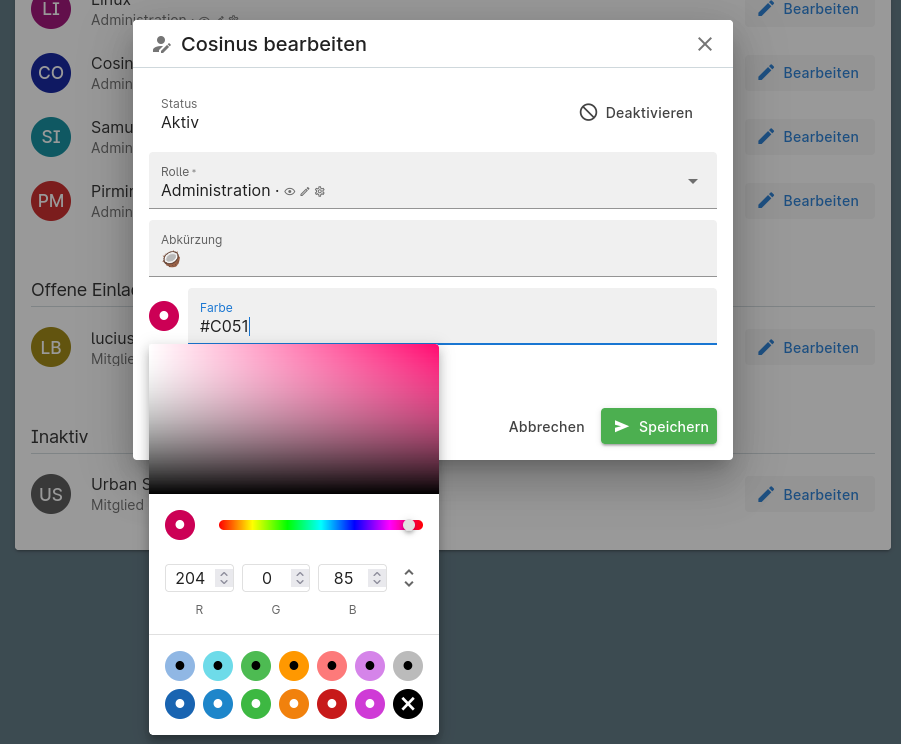
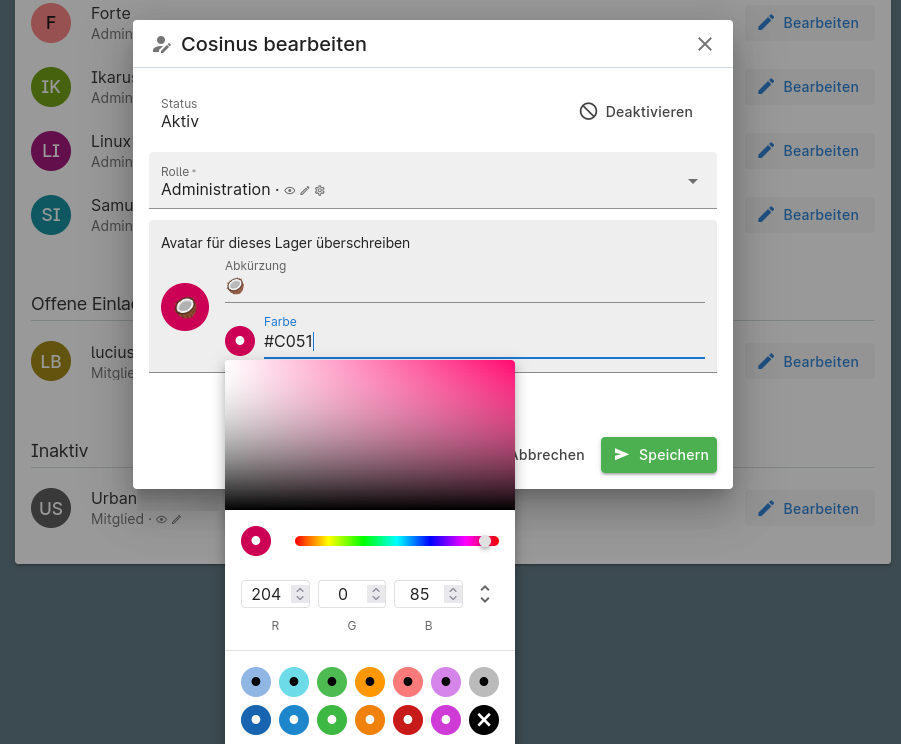
Add more deployed features

diff --git a/src/content/posts/2024-08-release.de.md b/src/content/posts/2024-08-release.de.md
@@ -14,7 +14,7 @@ Die grosse Welle von Sommerlagern dieses Jahr ist geschafft! Am Rekordtag, dem 1
 
 <div>
 
-Neu kann man die Farbe und die Initialen der Leute, die im Lager mitarbeiten, anpassen. Es sind zwei Buchstaben oder ein Emoji möglich. Die Anpassung gilt jeweils nur in diesem Lager. [#5281](https://github.com/ecamp/ecamp3/pull/5281){.issuelink}
+Neu kann man die Farbe und die Initialen der Leute, die im Lager mitarbeiten, anpassen. Es sind zwei Buchstaben oder ein Emoji möglich. Die Anpassung gilt jeweils nur in diesem Lager, aber man kann auch im Profil für sich selber Standard-Einstellungen machen. [#5281](https://github.com/ecamp/ecamp3/pull/5281){.issuelink} [#5411](https://github.com/ecamp/ecamp3/pull/5411){.issuelink}
 
 </div>
 
@@ -51,9 +51,11 @@ Wenn man offline ist, dann wird dies neu unten auf der Seite angezeigt. [#5026](
 - Der am meisten aufgetretene Bug beim Hinzufügen von Material mit Anzahl wurde behoben. [#5017](https://github.com/ecamp/ecamp3/pull/5017){.issuelink}
 - Wenn man einen langen SBB-Link ins Programm einfügt, dann geht die Nutzendenoberfläche jetzt nicht mehr kaputt. [#5446](https://github.com/ecamp/ecamp3/issues/5446){.issuelink}
 - Beim Login via MiData, Cevi.DB, JublaDB oder Google hat man neu 15 statt nur 5 Minuten Zeit um sich einzuloggen (falls man z.B. dort das Passwort zurücksetzen muss). [#5382](https://github.com/ecamp/ecamp3/pull/5382){.issuelink}
+- Falls das Aktivierungs-E-Mail nie angekommen ist, kann man sich jetzt ein neues Mail auslösen. [#5287](https://github.com/ecamp/ecamp3/pull/5287){.issuelink}
 - Beim Hinzufügen von mehreren Durchführungszeitpunkten auf einer Aktivität werden nun wenn möglich etwas sinnvollere Zeitpunkte vorgeschlagen (gleiche Tageszeit am jeweils nächsten Tag). [#5131](https://github.com/ecamp/ecamp3/pull/5131){.issuelink}
 - Wenn man auf der Detailansicht einer Aktivität auf den Titel klickt und gleich wieder ENTER drückt, dann tritt jetzt kein Fehler mehr auf. [#4610](https://github.com/ecamp/ecamp3/pull/4610){.issuelink}
 - Auf der Lager-Startseite kann man neu auf den Namen eines Lagerabschnitts klicken, um zum Grobprogramm zu kommen. [#5064](https://github.com/ecamp/ecamp3/issues/5064){.issuelink}
+- Die Lagerabschnitte, Blockverantwortungen und Materiallisten werden jetzt an mehr Orten sinnvoll sortiert. [#5535](https://github.com/ecamp/ecamp3/pull/5535){.issuelink} [#5539](https://github.com/ecamp/ecamp3/pull/5539){.issuelink}
 - Fehler, die beim Druck-Layout #1 entstehen, werden jetzt wieder zuverlässig ans eCamp Core Team gemeldet. [#5278](https://github.com/ecamp/ecamp3/pull/5278){.issuelink}
 - Auf ausreichend grossen Bildschirmen werden die Eingabefelder für PLZ und Ort auf einer Zeile angezeigt. [#5458](https://github.com/ecamp/ecamp3/pull/5458){.issuelink}
 - Das Grobprogramm verwendet nach der Entfernung der Fusszeile auf Desktop wieder die volle verfügbare Höhe. [#5112](https://github.com/ecamp/ecamp3/pull/5112){.issuelink}

diff --git a/src/content/posts/2024-08-release.en.md b/src/content/posts/2024-08-release.en.md
@@ -14,7 +14,7 @@ The big wave of summer camps this year is over! On the record day, July 13, over
 
 <div>
 
-You can now customize the color and initials of the people who collaborate in the camp. Two letters or one emoji are possible. This customizations can be done on a per-camp basis. [#5281](https://github.com/ecamp/ecamp3/pull/5281){.issuelink}
+You can now customize the color and initials of the people who collaborate in the camp. Two letters or one emoji are possible. This customizations can be done on a per-camp basis, but a default can also be set in your profile. [#5281](https://github.com/ecamp/ecamp3/pull/5281){.issuelink} [#5411](https://github.com/ecamp/ecamp3/pull/5411){.issuelink}
 
 </div>
 
@@ -52,9 +52,11 @@ If you are offline, this is now indicated at the bottom of the page. [#5026](htt
 - The most common bug when adding material with quantity has been fixed. [#5017](https://github.com/ecamp/ecamp3/pull/5017){.issuelink}
 - If you insert a long SBB/CFF/FFS link into the program, the user interface no longer breaks. [#5446](https://github.com/ecamp/ecamp3/issues/5446){.issuelink}
 - When logging in via MiData, Cevi.DB, JublaDB or Google, you now have 15 instead of just 5 minutes to log in (if you need to reset your password there, for example). [#5382](https://github.com/ecamp/ecamp3/pull/5382){.issuelink}
+- In case the activation email never arrived, you can now request it to be resent. [#5287](https://github.com/ecamp/ecamp3/pull/5287){.issuelink}
 - When adding several execution times to an activity, more sensible times are now suggested if possible (same time of day on the next day). [#5131](https://github.com/ecamp/ecamp3/pull/5131){.issuelink}
 - If you click on the title of an activity in the detailed view and then press ENTER, an error no longer occurs. [#4610](https://github.com/ecamp/ecamp3/pull/4610){.issuelink}
 - On the camp start page, you can now click on the name of a camp period to go to the picasso. [#5064](https://github.com/ecamp/ecamp3/issues/5064){.issuelink}
+- Camp periods, activity responsibles and material lists are now sorted sensibly in more places. [#5535](https://github.com/ecamp/ecamp3/pull/5535){.issuelink} [#5539](https://github.com/ecamp/ecamp3/pull/5539){.issuelink}
 - Errors that occur in print layout #1 are now reliably reported to the eCamp Core Team again. [#5278](https://github.com/ecamp/ecamp3/pull/5278){.issuelink}
 - On sufficiently large screens, the input fields for zip code and city are displayed on one line. [#5458](https://github.com/ecamp/ecamp3/pull/5458){.issuelink}
 - The picasso uses the full available height again after removing the footer on the desktop. [#5112](https://github.com/ecamp/ecamp3/pull/5112){.issuelink}
